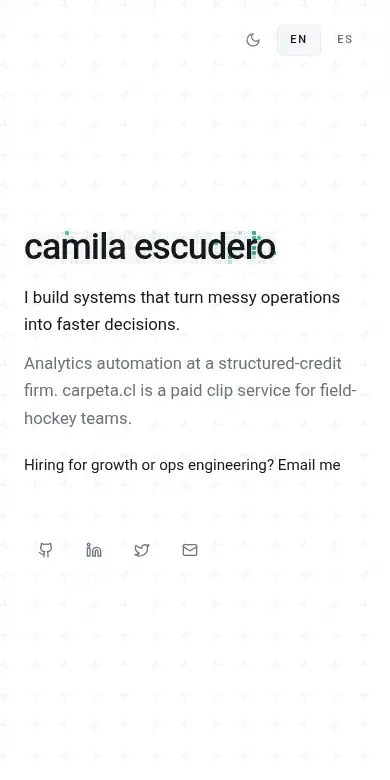
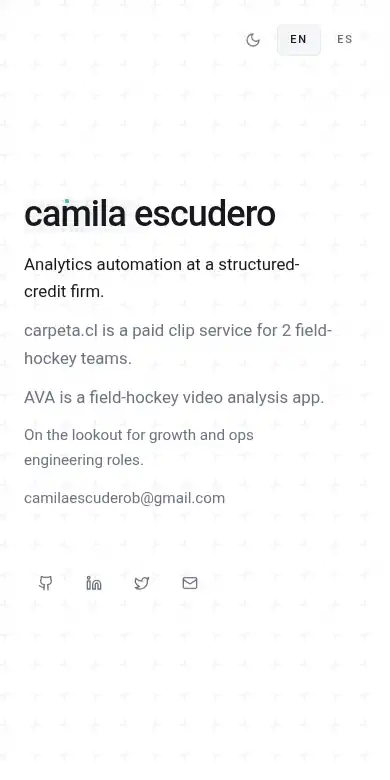
Lead the hero with the firm, carpeta.cl, and AVA.
The generic headline is gone. The lookout line stays as text, with the email as a quiet link beside it.

diff --git a/src/content/homeCopy.test.ts b/src/content/homeCopy.test.ts
@@ -5,9 +5,10 @@ import en from "@/i18n/en";
 import es from "@/i18n/es";
 
 const homeKeys = [
-  "hero.headline",
-  "hero.subline",
-  "hero.cta.hiring",
+  "hero.lead",
+  "hero.carpeta",
+  "hero.ava",
+  "hero.cta.lookout",
   "personalProjects.label",
   "personalProjects.clipLibrary.problem",
   "personalProjects.clipLibrary.built",
@@ -67,12 +68,14 @@ describe("home copy", () => {
     expect(home.match(/175 clips/g)).toEqual(["175 clips"]);
     expect(home.match(/8 factoring clients/g)).toEqual(["8 factoring clients"]);
     expect(home.match(/11-hotel/g)).toEqual(["11-hotel"]);
-    expect(en["hero.headline"]).toBe("I build systems that turn messy operations into faster decisions.");
-    expect(es["hero.headline"]).toBe(
-      "Construyo sistemas que convierten operaciones desordenadas en decisiones más rápidas.",
-    );
-    expect(en["hero.headline"]).not.toMatch(/revenue/i);
-    expect(en["hero.subline"]).not.toMatch(/2 teams|April 2026/);
+    expect(en["hero.lead"]).toBe("Analytics automation at a structured-credit firm.");
+    expect(en["hero.carpeta"]).toBe("carpeta.cl is a paid clip service for 2 field-hockey teams.");
+    expect(en["hero.ava"]).toBe("AVA is a field-hockey video analysis app.");
+    expect(en["hero.cta.lookout"]).toBe("On the lookout for growth and ops engineering roles.");
+    expect(es["hero.lead"]).toBe("Automatización de analítica en una firma de crédito estructurado.");
+    expect(es["hero.cta.lookout"]).toBe("Buscando roles de growth y ops engineering.");
+    expect(es["hero.carpeta"]).toContain("un servicio pago de clips");
+    expect(en["hero.lead"]).not.toMatch(/revenue|larrain|power bi/i);
     expect(en["experience.acfin.description"]).toBe("");
     expect(en["personalProjects.clipLibrary.built"]).toMatch(/founded it and I run it/);
     expect(joined(en, homeKeys)).not.toMatch(/\bFounder\b/);
@@ -104,15 +107,13 @@ describe("home copy", () => {
     );
     expect(en["cv.growth.pipeline.carpeta"]).toContain("Founded and run");
     expect(en["cv.growth.pipeline.carpeta"]).toContain("both with me since April 2026");
-    expect(en["cv.growth.summary"]).toBe("I ship systems that turn messy operations into faster decisions.");
+    expect(en["cv.growth.summary"]).toBe("Analytics automation at a structured-credit firm.");
     expect(en["cv.growth.capital.description"]).toBe(
       "Portfolio analytics: returns versus a benchmark, risk, and look-through exposure, automated.",
     );
-    expect(es["cv.growth.summary"]).toBe(
-      "Construyo sistemas que convierten operaciones desordenadas en decisiones más rápidas.",
-    );
+    expect(es["cv.growth.summary"]).toBe("Automatización de analítica en una firma de crédito estructurado.");
     expect(es["cv.growth.acfin.bullet2"].startsWith("Lancé productos")).toBe(true);
-    expect(es["hero.subline"]).toContain("un servicio pago de clips");
+    expect(es["hero.carpeta"]).toContain("un servicio pago de clips");
     expect(cvGrowthJobs.map((job) => job.id)).toEqual(["acfin", "finapsys", "a3", "visionary"]);
     expect(cvGrowthProjects.map((project) => project.id)).toEqual(["pipeline", "capital", "fleetOptimizer"]);
     expect(cvGrowthProjects[0]?.externalHref).toBe("https://carpeta.cl/");

diff --git a/src/components/Hero.tsx b/src/components/Hero.tsx
@@ -31,15 +31,19 @@ const Hero = () => {
             <h1 className="relative z-10 animate-fade-up">camila escudero</h1>
           </div>
 
-          <div className="mb-10 max-w-lg animate-fade-up-delay-1 space-y-3">
-            <p className="text-lg leading-relaxed text-foreground">{t("hero.headline")}</p>
-            <p className="text-lg leading-relaxed text-muted-foreground">{t("hero.subline")}</p>
-            <a
-              href={`mailto:${CONTACT_EMAIL}`}
-              className="inline-flex min-h-11 max-w-full cursor-pointer items-center text-base text-foreground link-underline focus-visible:outline focus-visible:outline-1 focus-visible:outline-offset-4 focus-visible:outline-ring"
-            >
-              {t("hero.cta.hiring")}
-            </a>
+          <div className="mb-10 max-w-2xl animate-fade-up-delay-1 space-y-3">
+            <p className="max-w-lg text-lg leading-relaxed text-foreground">{t("hero.lead")}</p>
+            <p className="max-w-lg text-lg leading-relaxed text-muted-foreground">{t("hero.carpeta")}</p>
+            <p className="max-w-lg text-lg leading-relaxed text-muted-foreground">{t("hero.ava")}</p>
+            <p className="flex max-w-full flex-wrap items-center gap-x-3 gap-y-1 text-base leading-relaxed text-muted-foreground">
+              <span>{t("hero.cta.lookout")}</span>
+              <a
+                href={`mailto:${CONTACT_EMAIL}`}
+                className="inline-flex min-h-11 cursor-pointer items-center text-muted-foreground link-underline focus-visible:outline focus-visible:outline-1 focus-visible:outline-offset-4 focus-visible:outline-ring"
+              >
+                {CONTACT_EMAIL}
+              </a>
+            </p>
           </div>
 
           <div className="flex items-center gap-1 animate-fade-up-delay-2">

diff --git a/index.html b/index.html
@@ -27,7 +27,7 @@
       })();
     </script>
     <title>Camila Escudero</title>
-    <meta name="description" content="I build systems that turn messy operations into faster decisions. Analytics automation at a structured-credit firm. carpeta.cl is a paid clip service for field-hockey teams.">
+    <meta name="description" content="Analytics automation at a structured-credit firm. carpeta.cl is a paid clip service for 2 field-hockey teams. AVA is a field-hockey video analysis app.">
     <meta name="author" content="Camila Escudero" />
     
     
@@ -39,8 +39,8 @@
     <link rel="apple-touch-icon" href="/apple-touch-icon.png" />
     <meta property="og:title" content="Camila Escudero">
   <meta name="twitter:title" content="Camila Escudero">
-  <meta property="og:description" content="I build systems that turn messy operations into faster decisions. Analytics automation at a structured-credit firm. carpeta.cl is a paid clip service for field-hockey teams.">
-  <meta name="twitter:description" content="I build systems that turn messy operations into faster decisions. Analytics automation at a structured-credit firm. carpeta.cl is a paid clip service for field-hockey teams.">
+  <meta property="og:description" content="Analytics automation at a structured-credit firm. carpeta.cl is a paid clip service for 2 field-hockey teams. AVA is a field-hockey video analysis app.">
+  <meta name="twitter:description" content="Analytics automation at a structured-credit firm. carpeta.cl is a paid clip service for 2 field-hockey teams. AVA is a field-hockey video analysis app.">
 </head>
   <body>
     <div id="root"></div>

diff --git a/src/i18n/es.ts b/src/i18n/es.ts
@@ -3,10 +3,10 @@ import type { TranslationKey } from "./types";
 const es: Record<TranslationKey, string> = {
     // Hero
     "hero.location": "Santiago, Chile",
-    "hero.headline": "Construyo sistemas que convierten operaciones desordenadas en decisiones más rápidas.",
-    "hero.subline":
-      "Automatización de analítica en una firma de crédito estructurado. carpeta.cl es un servicio pago de clips para equipos de hockey.",
-    "hero.cta.hiring": "¿Estás contratando para growth u ops engineering? Escríbeme",
+    "hero.lead": "Automatización de analítica en una firma de crédito estructurado.",
+    "hero.carpeta": "carpeta.cl es un servicio pago de clips para 2 equipos de hockey.",
+    "hero.ava": "AVA es una app de análisis de video de hockey.",
+    "hero.cta.lookout": "Buscando roles de growth y ops engineering.",
     "language.group": "Idioma",
     "language.english": "Inglés",
     "language.spanish": "Español",
@@ -297,7 +297,7 @@ const es: Record<TranslationKey, string> = {
     "cv.variant.analytics": "Analítica",
     "cv.variant.growth": "Growth",
     "cv.growth.role": "Sistemas para growth y operaciones",
-    "cv.growth.summary": "Construyo sistemas que convierten operaciones desordenadas en decisiones más rápidas.",
+    "cv.growth.summary": "Automatización de analítica en una firma de crédito estructurado.",
     "cv.growth.footerNote": "Sistemas para growth y operaciones",
     "cv.growth.skillsLabel": "Herramientas",
     "cv.growth.skills": "SQL, Python, Looker, LookML, BigQuery, Excel, Microsoft Office, TypeScript, C++",

diff --git a/src/i18n/en.ts b/src/i18n/en.ts
@@ -1,10 +1,10 @@
 const en = {
     // Hero
     "hero.location": "Santiago, Chile",
-    "hero.headline": "I build systems that turn messy operations into faster decisions.",
-    "hero.subline":
-      "Analytics automation at a structured-credit firm. carpeta.cl is a paid clip service for field-hockey teams.",
-    "hero.cta.hiring": "Hiring for growth or ops engineering? Email me",
+    "hero.lead": "Analytics automation at a structured-credit firm.",
+    "hero.carpeta": "carpeta.cl is a paid clip service for 2 field-hockey teams.",
+    "hero.ava": "AVA is a field-hockey video analysis app.",
+    "hero.cta.lookout": "On the lookout for growth and ops engineering roles.",
     "language.group": "Language",
     "language.english": "English",
     "language.spanish": "Spanish",
@@ -295,7 +295,7 @@ const en = {
     "cv.variant.analytics": "Analytics",
     "cv.variant.growth": "Growth",
     "cv.growth.role": "Systems for growth and operations",
-    "cv.growth.summary": "I ship systems that turn messy operations into faster decisions.",
+    "cv.growth.summary": "Analytics automation at a structured-credit firm.",
     "cv.growth.footerNote": "Systems for growth and operations",
     "cv.growth.skillsLabel": "Tools",
     "cv.growth.skills": "SQL, Python, Looker, LookML, BigQuery, Excel, Microsoft Office, TypeScript, C++",

diff --git a/mcp/src/site-content.ts b/mcp/src/site-content.ts
@@ -10,9 +10,9 @@ export const profile = {
   name: "Camila Escudero",
   location: "Santiago, Chile",
   tagline:
-    "I build systems that turn messy operations into faster decisions. Analytics automation at a structured-credit firm. carpeta.cl is a paid clip service for field-hockey teams.",
+    "Analytics automation at a structured-credit firm. carpeta.cl is a paid clip service for 2 field-hockey teams. AVA is a field-hockey video analysis app.",
   summary:
-    "I build systems that turn messy operations into faster decisions. Analytics automation at a structured-credit firm. carpeta.cl is a paid clip service for field-hockey teams. Ingeniería Civil Industrial at Pontificia Universidad Católica de Chile, with a diploma in information technology; graduating July 2027.",
+    "Analytics automation at a structured-credit firm. carpeta.cl is a paid clip service for 2 field-hockey teams. AVA is a field-hockey video analysis app. Ingeniería Civil Industrial at Pontificia Universidad Católica de Chile, with a diploma in information technology; graduating July 2027.",
   siteUrl: SITE_URL,
   social: {
     github: "https://github.com/camib0b",
